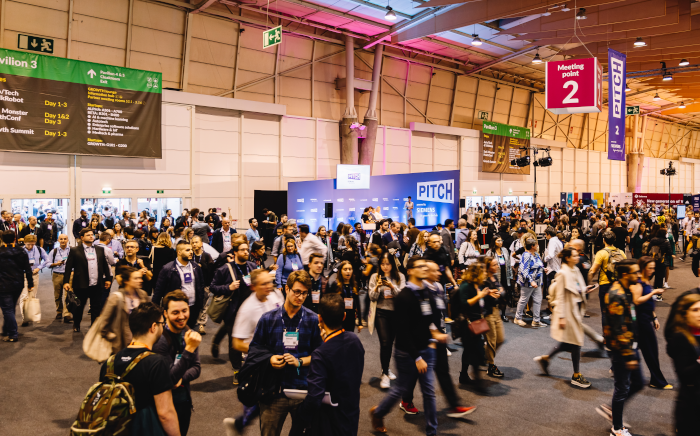
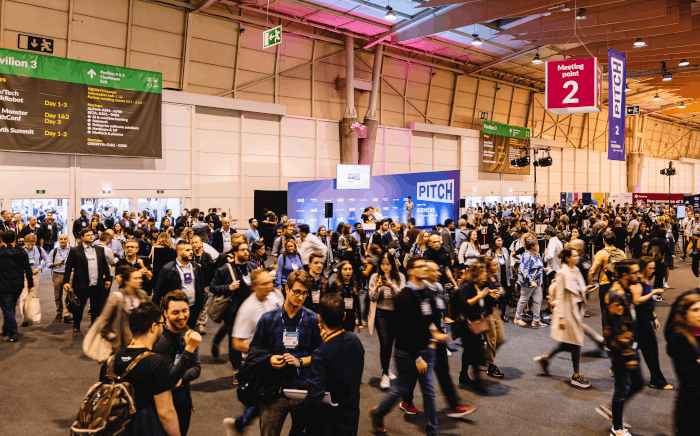
checking lightouse

diff --git a/index.html b/index.html
@@ -35,7 +35,7 @@
             </div>
 
             <div id="hero-image">
-                <img src="assets/images/h.jpg" alt="Image hero de la conférence">
+                <img src="assets/images/h.webp" loading="lazy" alt="Image hero de la conférence">
             </div>
 
             <div id="presentation">
@@ -48,30 +48,30 @@
             <div id="accueil-images">
                 <div id="images-wrapper">
                     <div class="images-group">
-                        <img src="assets/images/img1.png" alt="ancienne evenement de l'association">
-                        <img src="assets/images/img2.jpg" alt="intervenant speecking">
-                        <img src="assets/images/img4.jpg" alt="en ligne meeting">
-                        <img src="assets/images/img4.webp" alt="website design">
-                        <img src="assets/images/img6.jpg" alt="les gens dans la conference">
-                        <img src="assets/images/img7.jpg" alt="conference meeting">
-                        <img src="assets/images/img8.jpg" alt="deux developpeurs travaillent">
-                        <img src="assets/images/img9.webp" alt="visit à un terrin de foot">
-                        <img src="assets/images/img10.jpg" alt="des gens discutent">
-                        <img src="assets/images/img11.jpg" alt="la ville">
-                        <img src="assets/images/img12.jpg" alt="la ville">
+                        <img src="assets/images/img1.webp" loading="lazy" alt="ancienne evenement de l'association">
+                        <img src="assets/images/img2.jpg" loading="lazy" alt="intervenant speecking">
+                        <img src="assets/images/img4.jpg" loading="lazy" alt="en ligne meeting">
+                        <img src="assets/images/img4.webp" loading="lazy" alt="website design">
+                        <img src="assets/images/img6.jpg" loading="lazy" alt="les gens dans la conference">
+                        <img src="assets/images/img7.jpg" loading="lazy" alt="conference meeting">
+                        <img src="assets/images/img8.jpg" loading="lazy" alt="deux developpeurs travaillent">
+                        <img src="assets/images/img9.webp" loading="lazy" alt="visit à un terrin de foot">
+                        <img src="assets/images/img10.jpg" loading="lazy" alt="des gens discutent">
+                        <img src="assets/images/img11.jpg" loading="lazy" alt="la ville">
+                        <img src="assets/images/img12.jpg" loading="lazy" alt="la ville">
                     </div>
                     <div class="images-group">
-                        <img src="assets/images/img1.png" alt="ancienne evenement de l'association">
-                        <img src="assets/images/img2.jpg" alt="intervenant speecking">
-                        <img src="assets/images/img4.jpg" alt="en ligne meeting">
-                        <img src="assets/images/img4.webp" alt="website design">
-                        <img src="assets/images/img6.jpg" alt="les gens dans la conference">
-                        <img src="assets/images/img7.jpg" alt="conference meeting">
-                        <img src="assets/images/img8.jpg" alt="deux developpeurs travaillent">
-                        <img src="assets/images/img9.webp" alt="visit à un terrin de foot">
-                        <img src="assets/images/img10.jpg" alt="des gens discutent">
-                        <img src="assets/images/img11.jpg" alt="la ville">
-                        <img src="assets/images/img12.jpg" alt="la ville">
+                        <img src="assets/images/img1.webp" loading="lazy" alt="ancienne evenement de l'association">
+                        <img src="assets/images/img2.jpg" loading="lazy" alt="intervenant speecking">
+                        <img src="assets/images/img4.jpg" loading="lazy" alt="en ligne meeting">
+                        <img src="assets/images/img4.webp" loading="lazy" alt="website design">
+                        <img src="assets/images/img6.jpg" loading="lazy" alt="les gens dans la conference">
+                        <img src="assets/images/img7.jpg" loading="lazy" alt="conference meeting">
+                        <img src="assets/images/img8.jpg" loading="lazy" alt="deux developpeurs travaillent">
+                        <img src="assets/images/img9.webp" loading="lazy" alt="visit à un terrin de foot">
+                        <img src="assets/images/img10.jpg" loading="lazy" alt="des gens discutent">
+                        <img src="assets/images/img11.jpg" loading="lazy" alt="la ville">
+                        <img src="assets/images/img12.jpg" loading="lazy" alt="la ville">
                     </div>
                 </div>
             </div>
@@ -88,7 +88,7 @@
 
             <div id="intervenants-container">
                 <div>
-                    <img src="assets/images/int1.avif" alt="Photo de Yassine El Mansouri">
+                    <img src="assets/images/int1.avif" loading="lazy" alt="Photo de Yassine El Mansouri">
                     <h3>Yassine El Mansouri</h3>
                     <h4>Développeur Back-end</h4>
                     <p>Talk : Concevoir une API REST propre et sécurisée</p>
@@ -96,7 +96,7 @@
                 </div>
 
                 <div>
-                    <img src="assets/images/inte2.avif" alt="Photo de Sara Benali">
+                    <img src="assets/images/inte2.avif" loading="lazy" alt="Photo de Sara Benali">
                     <h3>Sara Benali</h3>
                     <h4>Designer UX/UI</h4>
                     <p>Talk : Du Figma au HTML, réussir son intégration</p>
@@ -104,7 +104,7 @@
                 </div>
 
                 <div>
-                    <img src="assets/images/int3.jpg" alt="Photo de Amine Tazi">
+                    <img src="assets/images/int3.jpg" loading="lazy" alt="Photo de Amine Tazi">
                     <h3>Amine Tazi</h3>
                     <h4>Développeur Full Stack</h4>
                     <p>Talk : Déployer son premier site avec Git et GitHub Pages</p>
@@ -112,7 +112,7 @@
                 </div>
 
                 <div>
-                    <img src="assets/images/int4.avif" alt="Photo de Amin Alaoui">
+                    <img src="assets/images/int4.avif" loading="lazy" alt="Photo de Amin Alaoui">
                     <h3>Amin Alaoui</h3>
                     <h4>Experte en accessibilité web</h4>
                     <p>Talk : Un site accessible, c'est un site pour tous</p>
@@ -120,7 +120,7 @@
                 </div>
 
                 <div>
-                    <img src="assets/images/int5.png" alt="Photo de Hamza Idrissi">
+                    <img src="assets/images/int5.png" loading="lazy" alt="Photo de Hamza Idrissi">
                     <h3>Hamza Idrissi</h3>
                     <h4>Consultant SEO et performance web</h4>
                     <p>Talk : Optimiser la vitesse et le référencement de son site</p>
@@ -128,7 +128,7 @@
                 </div>
 
                 <div>
-                    <img src="assets/images/int6.jpg" alt="Photo de Meryem Zahraoui">
+                    <img src="assets/images/int6.jpg" loading="lazy" alt="Photo de Meryem Zahraoui">
                     <h3>Meryem Zahraoui</h3>
                     <h4>Développeuse Front-end</h4>
                     <p>Talk : Un CSS moderne sans framework</p>
@@ -281,9 +281,9 @@
     </main>
     <footer id="footer">
         <nav>
-            <a href="https://www.linkedin.com"> <img src="assets/icons/linkedin.png" alt=""> LinkedIn</a>
-            <a href="https://facebook.com"> <img src="assets/icons/facebook.png" alt=""> Facebook</a>
-            <a href="https://x.com"> <img src="assets/icons/x.png" alt=""> X</a>
+            <a href="https://www.linkedin.com"> <img src="assets/icons/linkedin.png"  loading="lazy" alt="linkedin icon"> LinkedIn</a>
+            <a href="https://facebook.com"> <img src="assets/icons/facebook.png" loading="lazy" alt="facebook icon"> Facebook</a>
+            <a href="https://x.com"> <img src="assets/icons/x.png" loading="lazy" alt="X icon"> X</a>
         </nav>
     </footer>
 </body>

diff --git a/README.MD b/README.MD
@@ -1,0 +1,39 @@
+# Atlas Dev Days
+
+Site web de la conférence **Atlas Dev Days** : deux jours de talks, d'ateliers pratiques et de rencontres pour les développeurs web du Maroc oriental.
+
+📅 14 et 15 novembre 2026 — Palais des Congrès, Oujda
+
+## Pages
+
+Le site est une page unique avec quatre sections, accessibles depuis le menu :
+
+- **Accueil** : présentation de la conférence et galerie d'images
+- **Intervenants** : les six speakers et le sujet de leur talk
+- **Programme** : le déroulé des Jour 1 et Jour 2
+- **S'inscrire** : formulaire d'inscription avec validation des champs
+
+
+## Structure du projet
+
+```
+atlas-dev/
+├── index.html
+├── README.md
+├── css/
+│   └── style.css
+└── assets/
+    ├── icons/
+    └── images/
+```
+
+## ouvrir le projet
+    
+    Ouvrir `https://iaboudou.github.io/atlas-dev/` dans un navigateur.
+
+
+## Performance
+
+Le site a été testé avec Google Lighthouse pour évaluer ses performances, son accessibilité, les bonnes pratiques et le référencement SEO.
+
+![Lighthouse Report](assets/images/lighthouse.png)
